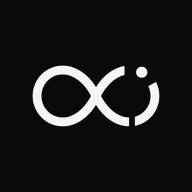
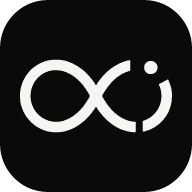
Redesign homepage layout with centered hero and three-column service grid
- Regenerate all favicon assets with updated branding
- Add `favicons` npm script to package.json
- Reduce nav and footer vertical padding from py-5/py-6 to py-3
- Scale logo mark to h-[0.7em] in nav and mobile menu for tighter lockup
- Remove ServiceRow component; replace with three-column service grid layout
- Condense service summaries to single-line descriptions
- Add hideFooter prop to BaseLayout; apply flex-col layout

diff --git a/src/data/services.ts b/src/data/services.ts
@@ -21,21 +21,21 @@ export const services: Service[] = [
     index: '01',
     title: 'WEB & DASHBOARD DEVELOPMENT',
     summary:
-      'Custom websites, business platforms, dashboards and web applications enhanced with AI capabilities to make digital operations smarter and more efficient.',
+      'Websites, dashboards and custom business software enhanced with AI capabilities.',
     href: '/contact',
   },
   {
     index: '02',
     title: 'AI & BUSINESS AUTOMATION',
     summary:
-      'AI-powered integrations and intelligent automation that reduce manual work, streamline workflows and improve business efficiency.',
+      'AI-powered integrations and intelligent automation that reduce manual work and streamline workflows.',
     href: '/contact',
   },
   {
     index: '03',
     title: 'SEO & DIGITAL GROWTH',
     summary:
-      'Search engine optimization, Google Ads and conversion-focused digital strategies that help businesses improve visibility and attract customers.',
+      'SEO, Google Ads and conversion-focused strategies that improve visibility and attract customers.',
     href: '/contact',
   },
 ];

diff --git a/src/styles/global.css b/src/styles/global.css
@@ -15,7 +15,7 @@
   --font-sans: 'Space Grotesk Variable', ui-sans-serif, system-ui, sans-serif;
   --font-mono: 'JetBrains Mono Variable', ui-monospace, monospace;
 
-  --text-masthead: clamp(4.5rem, 12vw, 11rem);
+  --text-masthead: clamp(2.5rem, min(12vw, 16svh), 11rem);
   --text-display: clamp(4rem, 12.5vw, 11rem);
   --text-h1: clamp(2.5rem, 6vw, 4.5rem);
   --text-h2: clamp(1.875rem, 4.5vw, 3.25rem);
